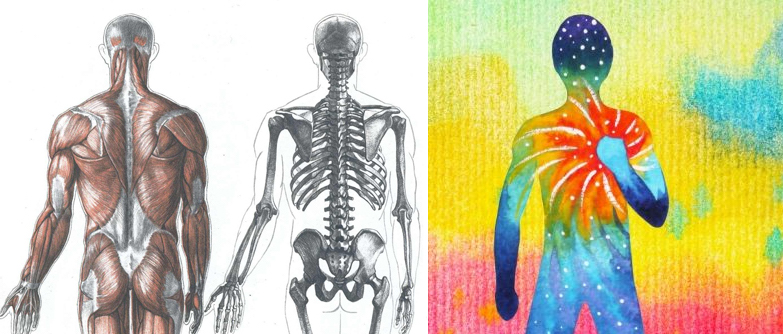
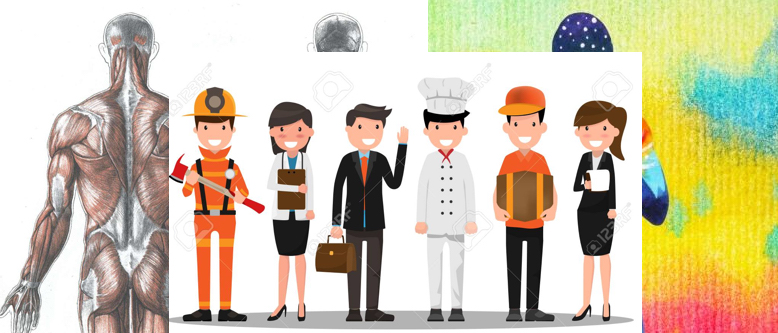
Add third image to page

diff --git a/blog/sprint3-technical.html b/blog/sprint3-technical.html
@@ -98,16 +98,19 @@
                 In fact we can alter NODES in so many ways we do not have time to mention them all here but once Javascript is 
                 targeting a NODE in the DOM we can add interactivity to our page such as adding events on mouse clicks, pop ups and auto-filling of forms etc.
               </p>
+              <p>We can see that our HTML and CSS can be enhanced and altered by Javascript. This gives our page
+                interactivity. Our initial designe can be turned into a chef, banker, police officer or web developer. Just like each of these 
+                roles having special skills our web page can have unique skills and create a better experience for our guests.
+              </p>
             </div>
           </div>
 
-          <div class="study">
-            <p class="h">Summary</p>
-            <div class="words">
-              <p>We can see that our HTML and CSS can be enhanced and altered by Javascript. This gives our boring page
-                interactivity. Our initial person can be turned into a chef, banker, police officer or web developer. By making the web page 
-                have special skills and being creative our web page can be turned into a unique experience for guests.
-              </p>
+          <div class="pictures">
+            <div class="screen-shot">
+                <figure class="screen-shot-item">
+                    <img class="" src="../images/jsandhtmlcss.jpeg" alt="...">
+                    <figcaption>Figure 3: From the inital bones and styling we can create a new and unique experience with Javascript</figcaption>
+                </figure>
             </div>
           </div>
 

diff --git a/css/sprint3tech.css b/css/sprint3tech.css
@@ -216,7 +216,8 @@
   
    .code {
      font-family: 'Courier New', Courier, monospace;
-   }
+     list-style-type: none;
+    }
    /* Parent */
    .pictures {
     display: flex;
@@ -262,8 +263,6 @@
 
   .share-space-heading {
     font-size: 1.3em;
-    /* padding-left: 1.5vw; */
-    border: solid 1px rebeccapurple;
   }
 
 
